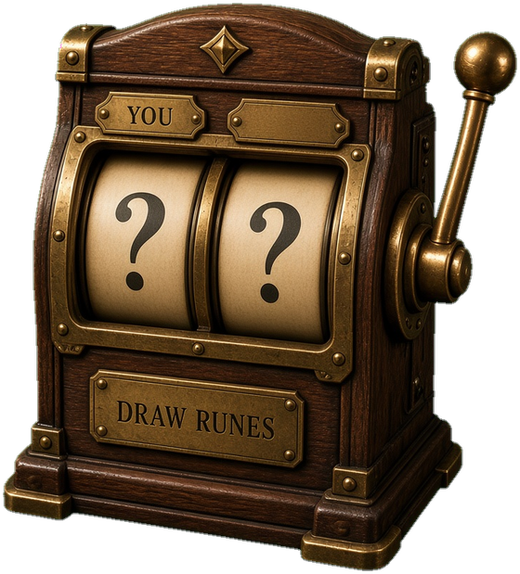
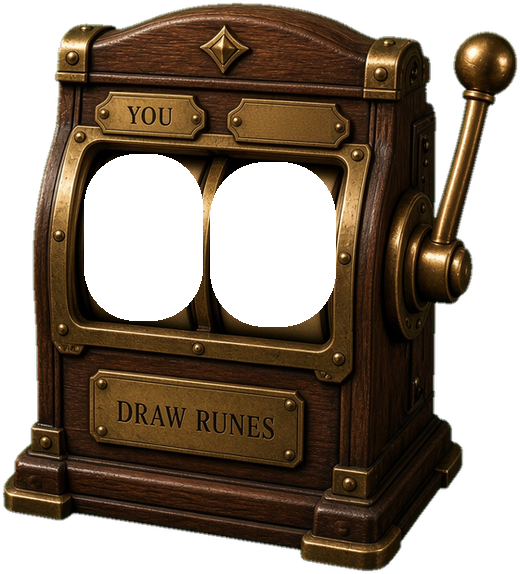
Clip the spinning reels to the bandit drum openings.
Numbers were a flat box on top of the machine, so they drifted off the brass. The cabinet art now has holes in the drums; the reels sit behind the frame and lock to one number in the window.

Changed region(s): [[0.1538, 0.2666, 0.6462, 0.5923]]

diff --git a/index.html b/index.html
@@ -685,16 +685,18 @@ button,select{font-family:system-ui;background:#6a5949;color:#fff;border-color:#
       <p class="starterCaption">Each of you draws a numbered rune. Highest chooses who takes the first move. A tie redraws.</p>
       <div class="starterRunes">
         <div class="bandit" id="runeBandit">
-          <img class="banditArt" src="assets/ui/rune_bandit_cabinet.png" alt="" draggable="false">
-          <span class="banditWhoNpc" id="runeNpcName">Opponent</span>
-          <div class="banditWindow banditWindowYou">
-            <div id="playerRune" class="banditReel"></div>
+          <div class="banditStage">
+            <div class="banditWindow banditWindowYou">
+              <div id="playerRune" class="banditReel"></div>
+            </div>
+            <div class="banditWindow banditWindowNpc">
+              <div id="npcRune" class="banditReel"></div>
+            </div>
+            <img class="banditArt" src="assets/ui/rune_bandit_cabinet.png" alt="" draggable="false">
+            <span class="banditWhoNpc" id="runeNpcName">Opponent</span>
+            <button id="drawRunes" class="banditDraw" type="button">Draw Runes</button>
+            <button id="banditLever" class="banditLever" type="button" tabindex="-1" aria-hidden="true"></button>
           </div>
-          <div class="banditWindow banditWindowNpc">
-            <div id="npcRune" class="banditReel"></div>
-          </div>
-          <button id="drawRunes" class="banditDraw" type="button">Draw Runes</button>
-          <button id="banditLever" class="banditLever" type="button" tabindex="-1" aria-hidden="true"></button>
         </div>
       </div>
       <div id="runeResult" class="starterResult"></div>
@@ -2502,6 +2504,7 @@ $("beginMatch").onclick=()=>{
    if(startingPlayer==="ai")aiOpeningMove();else renderGame();
  }
 }
+const BANDIT_REEL_WINDOW=1.32;
 let runeDrawGen=0;
 function ensureBanditReels(){
   ["playerRune","npcRune"].forEach(id=>{
@@ -2551,7 +2554,7 @@ function lockBanditReel(el,n){
   el.dataset.locked=String(n);
   const win=el.parentElement;
   if(win){
-    const cellH=win.clientHeight/2.08;
+    const cellH=win.clientHeight/BANDIT_REEL_WINDOW;
     if(cellH)win.style.setProperty("--reel-cell",cellH+"px");
   }
   const face=el.querySelector(".banditFace");
@@ -6685,42 +6688,53 @@ html,body,#visualShell{color-scheme:only light}
   justify-content:center;
   align-items:center;
   margin:10px 0 0;
+  container-type:size;
 }
 #starter .bandit{
-  position:relative;
-  container-type:inline-size;
-  width:min(100%,calc(var(--stage-w,440px) * .9),340px);
-  aspect-ratio:520 / 574;
-  max-height:100%;
+  display:flex;
+  align-items:center;
+  justify-content:center;
+  width:100%;
+  height:100%;
+  min-width:0;
+  min-height:0;
   cursor:pointer;
   touch-action:manipulation;
   user-select:none;
 }
 #starter .bandit.is-spent,
 #starter .bandit.is-pulling{cursor:default}
+#starter .banditStage{
+  position:relative;
+  container-type:inline-size;
+  width:min(100%, calc(100cqh * 520 / 574));
+  aspect-ratio:520 / 574;
+  max-height:100%;
+}
 #starter .banditArt{
   position:absolute;
   inset:0;
+  z-index:4;
   width:100%;
   height:100%;
-  object-fit:contain;
+  object-fit:fill;
   pointer-events:none;
   user-select:none;
 }
 #starter .bandit.is-pulling .banditArt{filter:brightness(.93)}
 #starter .banditWhoNpc{
   position:absolute;
-  left:40.8%;
-  top:18.8%;
-  width:22.5%;
-  height:8.2%;
+  left:45.2%;
+  top:18.6%;
+  width:21.2%;
+  height:8.4%;
   display:flex;
   align-items:center;
   justify-content:center;
-  z-index:2;
+  z-index:5;
   pointer-events:none;
   font-family:Georgia,"Times New Roman",serif;
-  font-size:5.4cqw;
+  font-size:4.6cqw;
   font-weight:800;
   letter-spacing:.08em;
   text-transform:uppercase;
@@ -6730,28 +6744,26 @@ html,body,#visualShell{color-scheme:only light}
   text-overflow:ellipsis;
 }
 #starter .banditWindow{
-  --reel-window:2.08;
+  --reel-window:1.32;
   --reel-cell:calc(100% / var(--reel-window));
   position:absolute;
-  z-index:2;
+  z-index:1;
   overflow:hidden;
-  opacity:0;
   pointer-events:none;
   background:linear-gradient(#efe0c0,#e4d2a8 55%,#d4bf90);
-  border-radius:8px;
+  border-radius:42% / 38%;
 }
-#starter .bandit.is-live .banditWindow{opacity:1}
 #starter .banditWindowYou{
-  left:17.4%;
-  top:28.2%;
-  width:21.6%;
-  height:27.2%;
+  left:16.2%;
+  top:26.8%;
+  width:22.6%;
+  height:29%;
 }
 #starter .banditWindowNpc{
   left:40.4%;
-  top:29.8%;
-  width:23.6%;
-  height:27%;
+  top:28.2%;
+  width:24%;
+  height:28.6%;
 }
 #starter .banditWindow:after{
   content:"";
@@ -6759,7 +6771,7 @@ html,body,#visualShell{color-scheme:only light}
   inset:0;
   z-index:3;
   pointer-events:none;
-  background:linear-gradient(#0005,transparent 24%,transparent 76%,#0006);
+  background:linear-gradient(#0004,transparent 22%,transparent 78%,#0005);
 }
 #starter .banditReel{
   position:relative;
@@ -6778,14 +6790,14 @@ html,body,#visualShell{color-scheme:only light}
   justify-content:center;
   flex:0 0 var(--reel-cell);
   font-family:Georgia,"Times New Roman",serif;
-  font-size:calc(var(--reel-cell) * .72);
+  font-size:calc(var(--reel-cell) * .78);
   font-weight:800;
   line-height:1;
   color:#1a0c08;
 }
 #starter .banditReel.is-spinning .banditStrip{
   animation:banditSpin .15s linear infinite;
-  filter:blur(4px);
+  filter:blur(3px);
 }
 #starter .banditReel.is-locked .banditStrip{
   transform:translateY(calc((var(--reel-window) * .5 - (8 + var(--reel-n,1) + .5)) * var(--reel-cell)));
@@ -6799,7 +6811,7 @@ html,body,#visualShell{color-scheme:only light}
   justify-content:center;
   background:linear-gradient(#f4e6c4,#e2d0a8);
   font-family:Georgia,"Times New Roman",serif;
-  font-size:calc(var(--reel-cell) * .86);
+  font-size:calc(var(--reel-cell) * .9);
   font-weight:800;
   color:#3a2a18;
 }
@@ -6814,7 +6826,7 @@ html,body,#visualShell{color-scheme:only light}
   top:66%;
   width:44%;
   height:13%;
-  z-index:3;
+  z-index:6;
   margin:0;
   padding:0!important;
   opacity:0;
@@ -6833,7 +6845,7 @@ html,body,#visualShell{color-scheme:only light}
   top:5.5%;
   width:22%;
   height:44%;
-  z-index:3;
+  z-index:6;
   margin:0;
   padding:0!important;
   background:transparent!important;

diff --git a/service-worker.js b/service-worker.js
@@ -1,4 +1,4 @@
-const CACHE_NAME = 'card-road-pwa-v62-rune-bandit-art';
+const CACHE_NAME = 'card-road-pwa-v63-bandit-align';
 const CORE_ASSETS = [
   './index.html',
   './manifest.webmanifest',
